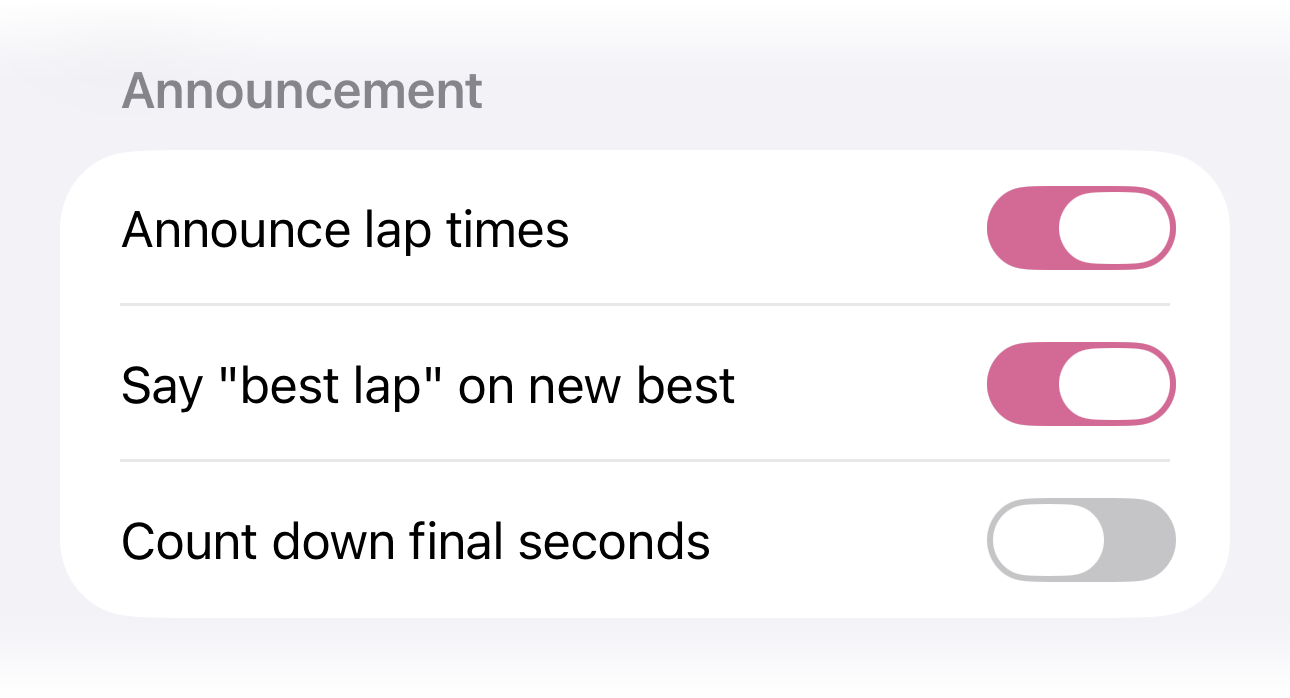
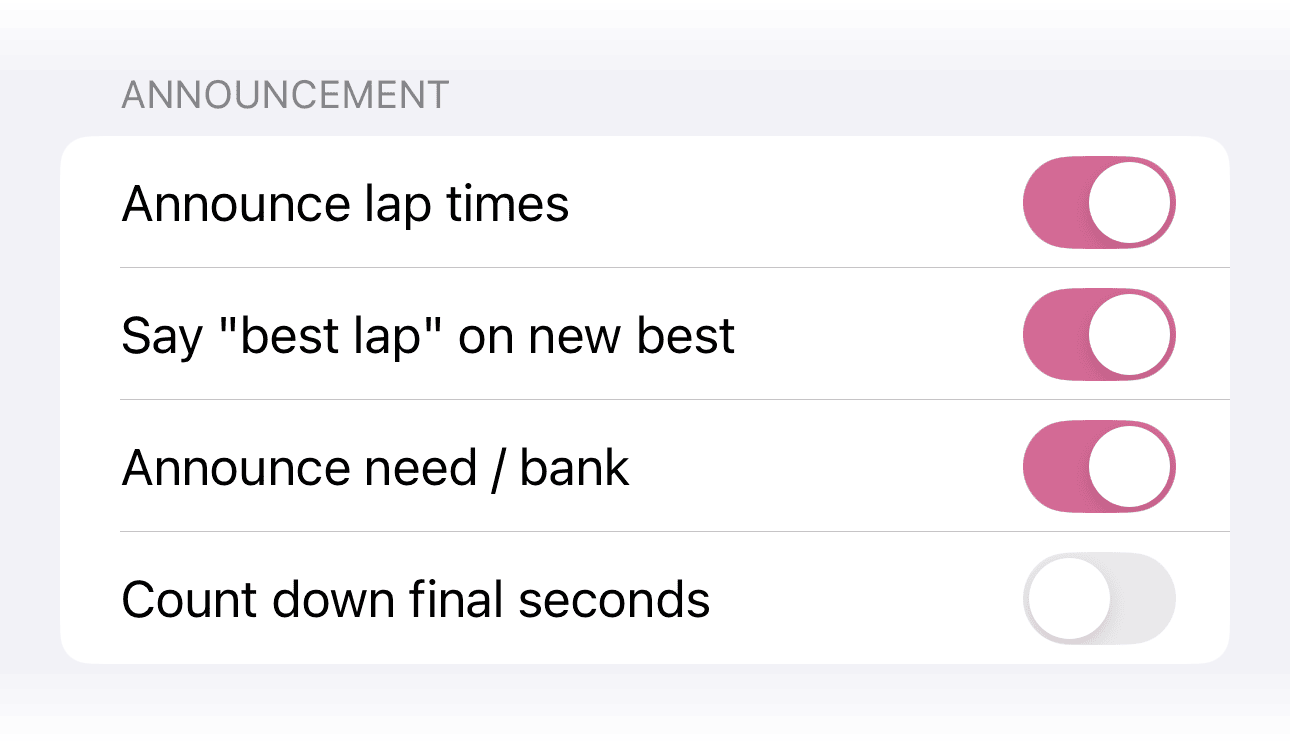
ios: clarify Need/Bank announcement wording
- Insert a 読点 in the Japanese split phrase ("0.2秒、不足" /
  "0.2秒、余裕") so the synthesizer stops reading 秒不足 as the
  compound "びょうぶそく"
- Say "on pace" / "ペースちょうど" when the per-lap delta rounds to
  0.0: splitState thresholds the total diff, but the spoken number is
  the per-remaining-lap share, so a Need state could still announce
  "0.0 seconds per lap"
- Rename the Japanese toggle to "目標ペースとの差を読み上げる" —
  "Need / Bank を読み上げる" didn't read as Japanese
- Regenerate the four audio-announcement manual screenshots so the
  new toggle is visible (Codex review finding)
- Update en/ja manual wording and the DEBUG format assertions

diff --git a/app/HDZap/Models/LapAnnouncer.swift b/app/HDZap/Models/LapAnnouncer.swift
@@ -1202,13 +1202,23 @@ final class LapAnnouncer: NSObject, AVSpeechSynthesizerDelegate {
     private static func splitPhrase(state: RaceMetrics.SplitState,
                                     perLapSec: TimeInterval,
                                     language: LapAnnouncerLanguage) -> String? {
-        guard perLapSec.isFinite, state != .onTarget else { return nil }
+        guard perLapSec.isFinite else { return nil }
+        // `splitState` thresholds the *total* diff, but the spoken number is
+        // the per-remaining-lap share — so a diff big enough to read as Need
+        // can still round to "0.0" per lap. Announcing "0.0 seconds per lap"
+        // is noise; call it on pace instead.
+        if state == .onTarget || abs(perLapSec) < 0.05 {
+            return language == .english ? "on pace" : "ペースちょうど"
+        }
         let value = RaceMetrics.seconds(abs(perLapSec), decimals: 1)
         switch (language, state) {
         case (.english, .need): return "need \(value) seconds per lap"
         case (.english, .bank): return "bank \(value) seconds per lap"
-        case (.japanese, .need): return "\(value)秒不足"
-        case (.japanese, .bank): return "\(value)秒余裕"
+        // The 読点 matters: run together, the synthesizer reads 秒不足 as the
+        // compound "びょうぶそく". A space alone doesn't break it — verified on
+        // device — but a comma forces the clause boundary: "びょう、ふそく".
+        case (.japanese, .need): return "\(value)秒、不足"
+        case (.japanese, .bank): return "\(value)秒、余裕"
         case (_, .onTarget): return nil
         }
     }
@@ -1220,12 +1230,17 @@ final class LapAnnouncer: NSObject, AVSpeechSynthesizerDelegate {
         assert(splitPhrase(state: .bank, perLapSec: 0.26, language: .english)
                == "bank 0.3 seconds per lap")
         assert(splitPhrase(state: .need, perLapSec: -0.04, language: .english)
-               == "need 0.0 seconds per lap")
+               == "on pace")
         assert(splitPhrase(state: .need, perLapSec: -0.2, language: .japanese)
-               == "0.2秒不足")
+               == "0.2秒、不足")
         assert(splitPhrase(state: .bank, perLapSec: 0.2, language: .japanese)
-               == "0.2秒余裕")
-        assert(splitPhrase(state: .onTarget, perLapSec: 0, language: .japanese) == nil)
+               == "0.2秒、余裕")
+        assert(splitPhrase(state: .need, perLapSec: -0.04, language: .japanese)
+               == "ペースちょうど")
+        assert(splitPhrase(state: .onTarget, perLapSec: 0, language: .japanese)
+               == "ペースちょうど")
+        assert(splitPhrase(state: .onTarget, perLapSec: 0, language: .english)
+               == "on pace")
         assert(splitPhrase(state: .need, perLapSec: .infinity, language: .english) == nil)
     }
     #endif

diff --git a/docs/manual/ja.md b/docs/manual/ja.md
@@ -796,7 +796,7 @@ Announcement セクション（両エンジン共通）：
 
 - **ラップタイムを読み上げる**：ON / OFF。セッション残り 0 秒の瞬間に「ファイナルラップです」のコール（言語が英語の場合は "Last lap!"）も合わせて発火。
 - **ベスト更新時に「ベストラップ」と読み上げる**：新ベスト時に読み上げに「ベストラップ」を付ける
-- **Need / Bank を読み上げる**：既定 OFF。ON にすると、目標達成に必要な短縮量または貯金できている時間を、残り目標ラップ1周あたり小数第1位まで追加で読み上げます。実況は短さを優先して「0.2秒不足」「0.2秒余裕」となり、目標どおりの場合は何も追加しません
+- **目標ペースとの差を読み上げる**（OSD の Need / Bank と同じ値）：既定 OFF。ON にすると、目標達成に必要な短縮量または貯金できている時間を、残り目標ラップ1周あたり小数第1位まで追加で読み上げます。実況は短さを優先して「0.2秒、不足」「0.2秒、余裕」となり、目標どおりの場合や1周あたりの差が0.0秒に丸まる場合は「ペースちょうど」と読み上げます
 - **残り秒数をカウントダウンする**：既定 OFF。ON にすると、セッション終了直前を選択中のボイスでカウントダウン（日本語は「じゅう、きゅう…」、英語は "ten, nine, ..."）
 - **開始秒数**：5〜15 秒。既定 10。**残り秒数をカウントダウンする** が ON のときだけ表示
 

diff --git a/docs/manual/en.md b/docs/manual/en.md
@@ -796,7 +796,7 @@ Announcement section — applies to both engines:
 
 - **Announce lap times**: on / off. Also triggers a "Last lap!" voice cue at the moment the session timer hits zero (or "ファイナルラップです" when the language is set to Japanese).
 - **Say "best lap" on new best**: prefix the announcement with "best lap" when a lap sets a new fastest
-- **Announce need / bank**: off by default. When enabled, each applicable lap call adds the one-decimal pace correction or time in hand per remaining target lap (for example, “need 0.2 seconds per lap” or “bank 0.2 seconds per lap”). Nothing is added when the pace is on target. Japanese calls use the shorter “0.2秒不足” / “0.2秒余裕” wording.
+- **Announce need / bank**: off by default. When enabled, each applicable lap call adds the one-decimal pace correction or time in hand per remaining target lap (for example, “need 0.2 seconds per lap” or “bank 0.2 seconds per lap”). When the pace is on target — or the per-lap correction rounds to 0.0 — the call says “on pace” instead. Japanese calls use the shorter “0.2秒、不足” / “0.2秒、余裕” wording, and “ペースちょうど” when on target.
 - **Count down final seconds**: off by default. When on, the announcer counts down the closing seconds of the session window using the selected voice ("ten, nine, ..." in English, "じゅう、きゅう..." in Japanese).
 - **Start at**: 5–15 s — when the countdown begins. Default 10. Only shown when **Count down final seconds** is on.
 
